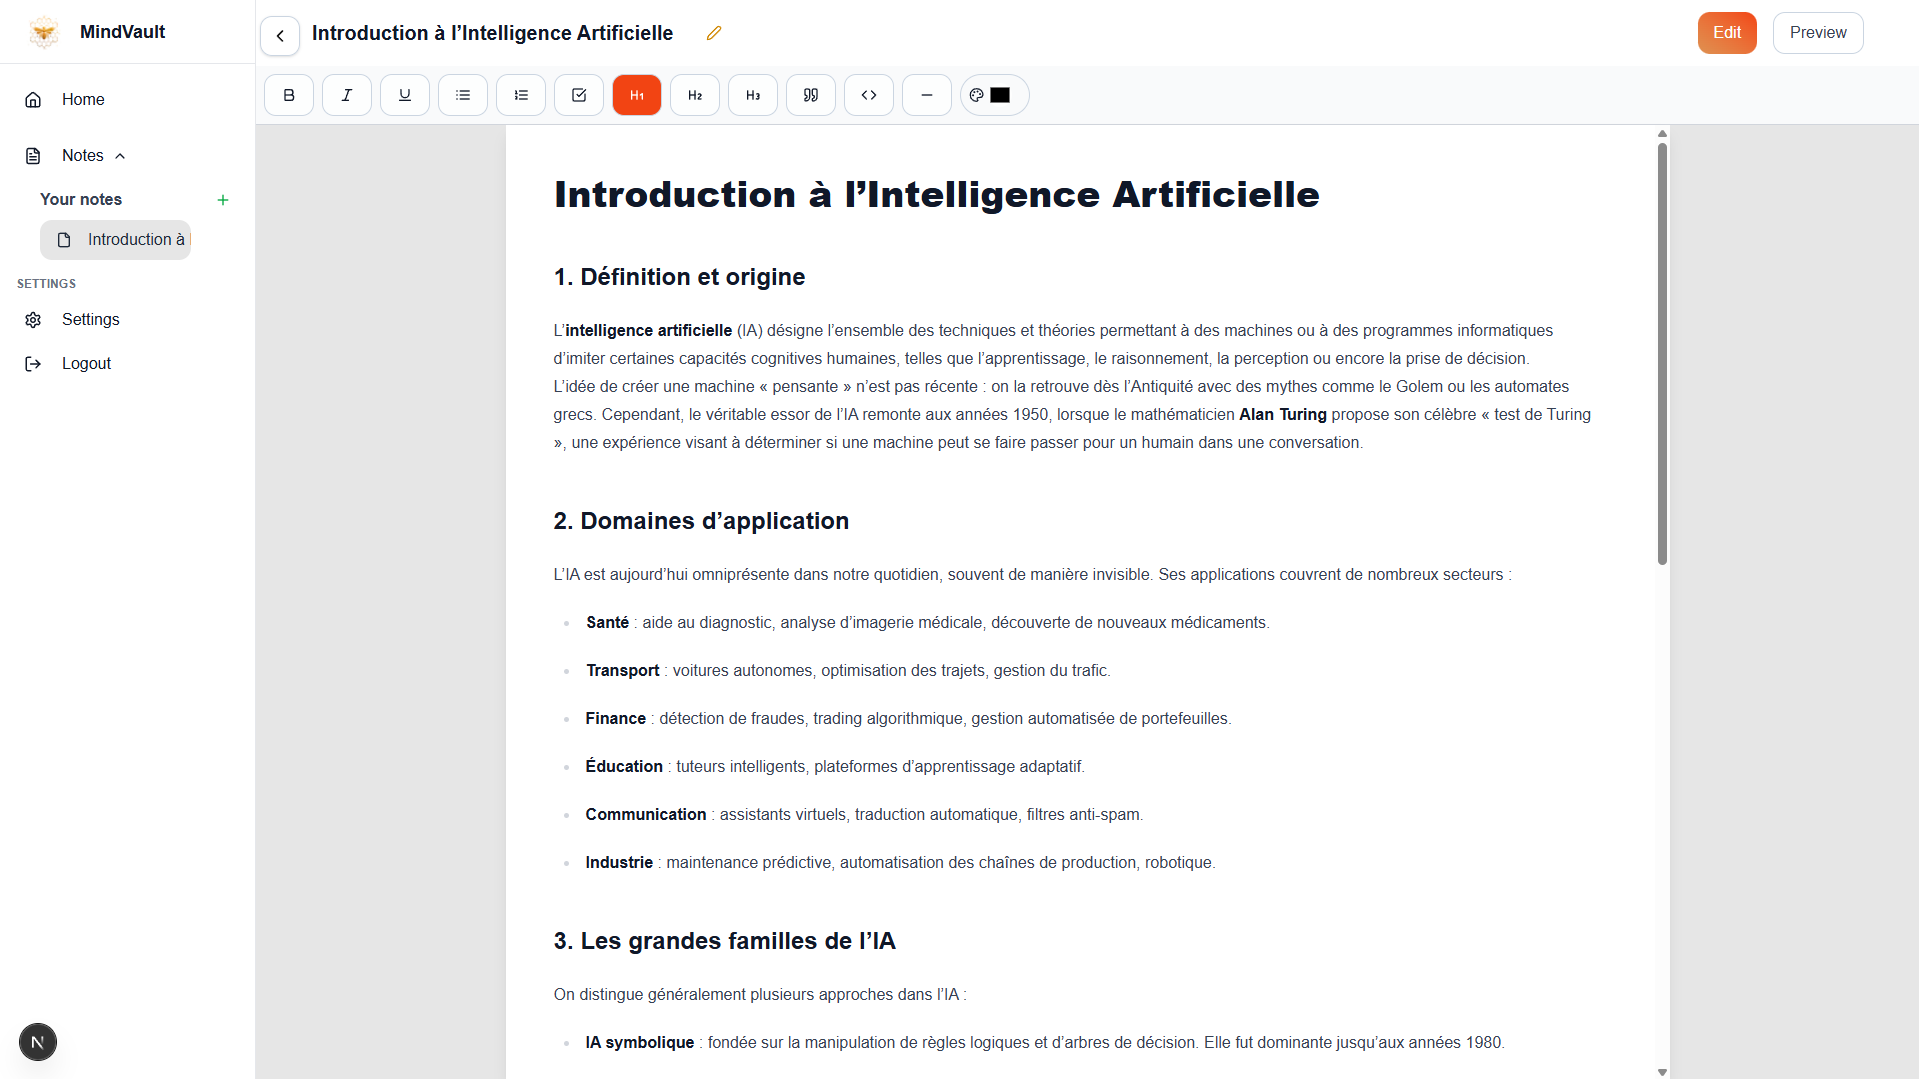
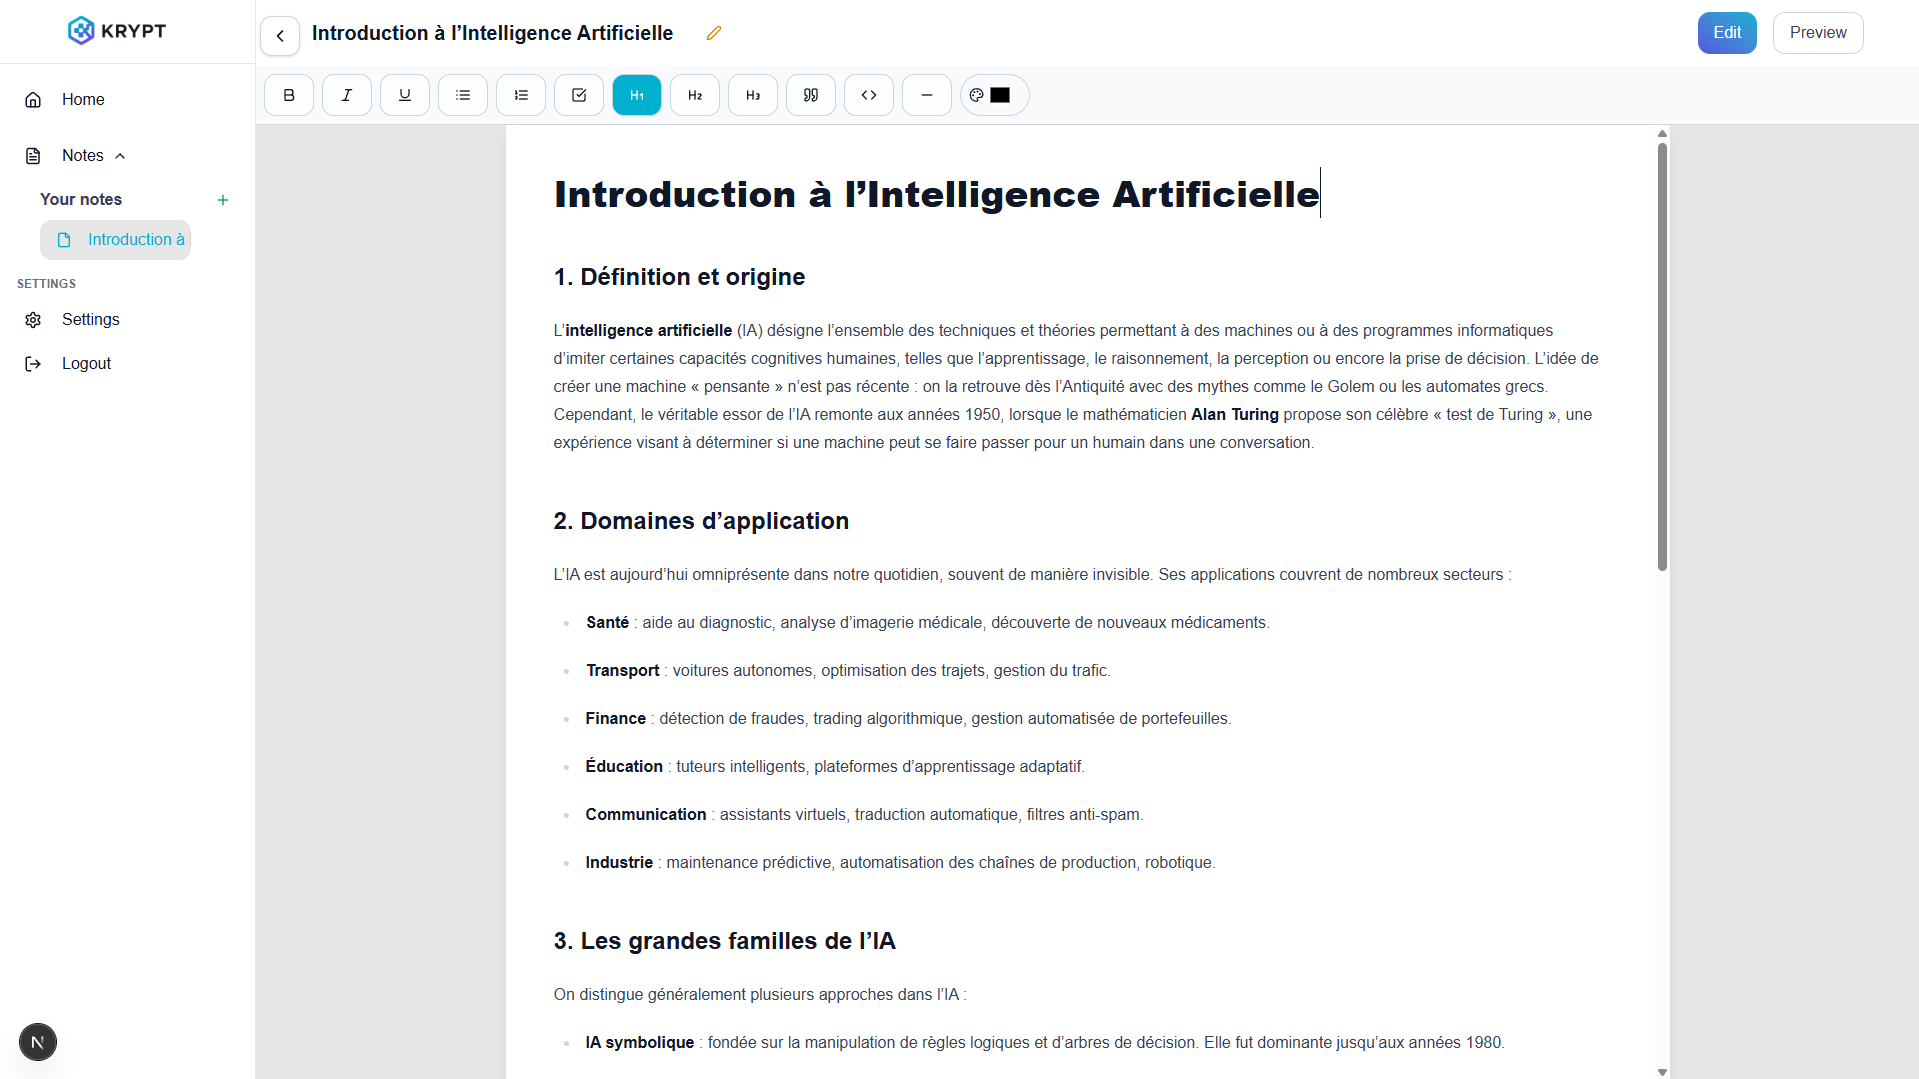
refactor: change mindvault occurence and style

diff --git a/krypt-app/src/app/dashboard/components/Sidebar.tsx b/krypt-app/src/app/dashboard/components/Sidebar.tsx
@@ -51,7 +51,7 @@ export default function Sidebar({
     try {
       const token = localStorage.getItem("token");
       if (!token) throw new Error("No token found");
-      
+
       const logoutUrl = process.env.NEXT_PUBLIC_LOGOUT_URL;
 
       if (!logoutUrl) {
@@ -96,16 +96,26 @@ export default function Sidebar({
         >
           {/* Header */}
           <div className="flex items-center p-4 border-b border-gray-200 h-16">
-            <div className="flex items-center space-x-2">
-              <Image
-                src="/favicon-1.png"
-                alt="MindVault Logo"
-                width={48}
-                height={48}
-                className="h-14 w-14 object-contain select-none"
-                draggable={false}
-              />
-              {!collapsed && <p className="font-bold text-lg">MindVault</p>}
+            <div className="flex items-center space-x-2 transition">
+              {collapsed ? (
+                <Image
+                  src="/favicon-2.png"
+                  alt="Krypt Logo"
+                  width={150}
+                  height={150}
+                  className="h-10 w-20 object-contain select-none"
+                  draggable={false}
+                />
+              ) : (
+                <Image
+                  src="/favicon.png"
+                  alt="Krypt Logo"
+                  width={150}
+                  height={150}
+                  className="h-30 w-50 object-contain select-none"
+                  draggable={false}
+                />
+              )}
             </div>
           </div>
 
@@ -186,7 +196,7 @@ export default function Sidebar({
                         variant="sidebar"
                         className={`flex items-center text-left truncate ${
                           note.id === selectedNoteId
-                            ? "bg-[var(--secondary)] text-[#E88F59]"
+                            ? "bg-[var(--secondary)] text-[var(--primary)]"
                             : "text-gray-800"
                         }`}
                         title={note.title}

diff --git a/krypt-app/src/config/constants.tsx b/krypt-app/src/config/constants.tsx
@@ -4,8 +4,8 @@
 export const HERO_CONTENT = {
   title: "Your ideas, connected and organized",
   description:
-    "Mindvault is your intelligent knowledge base - capture, link, and resurface insights effortlessly. Built for thinkers, creators, and lifelong learners.",
-  primaryCta: "Try Mindvault Free",
+    "Krypt is your intelligent knowledge base - capture, link, and resurface insights effortlessly. Built for thinkers, creators, and lifelong learners.",
+  primaryCta: "Try Krypt for Free",
   secondaryCta: "Learn More",
   placeholder: "Demo App",
 };
@@ -76,7 +76,7 @@ export const FEATURES_LIST: {
 }
 export const TESTIMONIAL = {
   quote:
-    "“MindVault m'aide à capturer mes idées, à structurer ma pensée, et à revenir facilement sur ce qui compte. ",
+    "Krypt m'aide à capturer mes idées, à structurer ma pensée, et à revenir facilement sur ce qui compte. ",
   emphasized: "C'est littéralement mon second cerveau.",
   author: "Pierre Roche",
   role: "Cognitive Coach",
@@ -92,7 +92,7 @@ export const FOOTER = {
   },
   company: {
     title: "Company",
-    links: ["About Mindvault", "Careers", "Privacy & Terms", "Contact"],
+    links: ["About Krypt", "Careers", "Privacy & Terms", "Contact"],
   },
   resources: {
     title: "Resources",
@@ -105,8 +105,8 @@ export const FOOTER = {
     linkedinLabel: "LinkedIn",
   },
   copyright: {
-    alt: "Mindvault Logo",
-    text: `© ${new Date().getFullYear()} Mindvault - All rights reserved.`,
+    alt: "Krypt Logo",
+    text: `© ${new Date().getFullYear()} Krypt - All rights reserved.`,
   },
 };
 

diff --git a/krypt-app/src/app/landing/components/CTA.tsx b/krypt-app/src/app/landing/components/CTA.tsx
@@ -16,7 +16,7 @@ export default function Cta() {
             className="absolute bottom-0 left-1/2 -z-10 -translate-x-1/2 translate-y-1/2"
             aria-hidden="true"
           >
-            <div className="h-56 w-[480px] rounded-full border-[20px] border-[var(--primary)] blur-3xl opacity-50" />
+            <div className="h-56 w-[480px] rounded-full border-[20px] border-[var(--primary)] blur-3xl opacity-100" />
           </div>
 
           {/* Background Illustration */}
@@ -24,14 +24,14 @@ export default function Cta() {
             className="absolute inset-0 -z-10 flex items-center justify-center"
             aria-hidden="true"
           >
-            <div className="relative h-[400px] w-[400px] rounded-full opacity-10">
+            <div className="relative h-[400px] w-[400px] rounded-full opacity-30">
               <div className="absolute inset-0 animate-[pulse_6s_ease-in-out_infinite] rounded-full bg-gradient-to-br from-[var(--background-2)] to-[var(--primary)] blur-3xl"></div>
               <Image
                 src={image}
                 alt="Background pattern"
                 width={400}
                 height={400}
-                className="relative z-10 mx-auto rounded-full border border-white/10 bg-gray-900 p-4 shadow-inner"
+                className="relative z-10 mx-auto rounded-full bg-transparent p-4 shadow-inner"
               />
             </div>
           </div>

diff --git a/krypt-app/src/app/landing/components/Header.tsx b/krypt-app/src/app/landing/components/Header.tsx
@@ -12,14 +12,14 @@ export default function Header() {
 
       <header className="fixed top-2 z-30 w-full md:top-6">
         <div className="mx-auto max-w-6xl px-4 sm:px-6">
-          <div className="relative flex h-14 items-center justify-between gap-3 rounded-2xl backdrop-filter backdrop-blur-[20px] px-3 shadow-lg shadow-black/[0.03] before:pointer-events-none before:absolute before:inset-0 before:rounded-[inherit] before:border before:border-[#cbd5e1] before:[background:linear-gradient(var(--color-gray-100),var(--color-gray-200))_border-box] before:[mask-composite:exclude_!important] before:[mask:linear-gradient(white_0_0)_padding-box,_linear-gradient(white_0_0)]">
+          <div className="relative flex h-14 items-center justify-between gap-3 rounded-2xl bg-white/80 backdrop-blur-[20px] px-3 shadow-lg shadow-black/[0.03] border border-[#cbd5e1]">
             {/* Logo */}
             <div className="flex flex-1 items-center">
               <Image
                 src={icon}
-                alt="Logo"
-                width={60}
-                height={60}
+                alt="Krypt Logo"
+                width={150}
+                height={80}
                 style={{ borderRadius: "0.5rem" }}
               />
             </div>

diff --git a/krypt-app/src/app/landing/components/Features.tsx b/krypt-app/src/app/landing/components/Features.tsx
@@ -18,7 +18,7 @@ export default function Features() {
           {/* Planet */}
           <div className="pb-16 md:pb-20" data-aos="zoom-y-out">
             <div className="text-center">
-              <div className="relative inline-flex rounded-full before:absolute before:inset-0 before:-z-10 before:scale-[.75] before:animate-[pulse_4s_cubic-bezier(.4,0,.6,1)_infinite] before:bg-gradient-to-b before:from-[var(--background-2)] before:to-[var(--primary)] before:blur-3xl before:rounded-full">
+              <div className="relative inline-flex rounded-full before:absolute before:inset-0 before:-z-10 before:scale-[1.25] before:animate-[pulse_4s_cubic-bezier(.4,0,.6,1)_infinite] before:bg-gradient-to-b before:from-[var(--background-2)] before:to-[var(--primary)] before:blur-3xl before:rounded-full">
                 <Image
                   className="rounded-full"
                   src={PlanetImg}

diff --git a/krypt-app/src/app/landing/components/Footer.tsx b/krypt-app/src/app/landing/components/Footer.tsx
@@ -37,7 +37,7 @@ export default function Footer({ border = false }: { border?: boolean }) {
       {/* Glow + background */}
       <div className="relative -mt-16 h-60 w-full" aria-hidden="true">
         <div className="pointer-events-none absolute -mt-6 left-1/2 -translate-x-1/2 text-[256px] font-extrabold text-transparent bg-clip-text bg-gradient-to-r from-[var(--background-2)] to-[var(--primary)] opacity-10">
-          Mindvault
+          Krypt
         </div>
         <div className="absolute -bottom-8 left-1/2 -translate-x-1/2 translate-y-2/3">
           <div className="h-256 w-512 rounded-full bg-gradient-to-r from-[var(--background-2)] to-[var(--primary)] blur-[150px] opacity-35"></div>

diff --git a/krypt-app/src/app/layout.tsx b/krypt-app/src/app/layout.tsx
@@ -13,9 +13,9 @@ const geistMono = Geist_Mono({
 });
 
 export const metadata: Metadata = {
-  title: "MindVault",
+  title: "Krypt",
   icons: "/favicon-2.png",
-  description: "Your intelligent knowledge base",
+  description: "Keep Recording Your Plans and Thoughts",
   authors: [
     {
       name: "Pierre",
@@ -26,7 +26,8 @@ export const metadata: Metadata = {
     "knowledge base",
     "AI",
     "intelligent",
-    "mind vault",
+    "krypt",
+    "Keep Recording Your Plans and Thoughts",
     "personal knowledge management",
   ],
 };

diff --git a/krypt-app/src/components/molecules/FooterBranding.tsx b/krypt-app/src/components/molecules/FooterBranding.tsx
@@ -3,12 +3,12 @@ import icon from "@/app/favicon.png";
 
 export function FooterBranding({ text, alt }: { text: string; alt: string }) {
   return (
-    <div className="space-y-2 sm:col-span-12 lg:col-span-4">
+    <div className="space-y-0 sm:col-span-12 lg:col-span-4">
       <Image
         src={icon}
         alt={alt}
-        width={32}
-        height={32}
+        width={150}
+        height={150}
         style={{ borderRadius: "0.5rem" }}
       />
       <div>{text}</div>

diff --git a/krypt-app/src/app/landing/components/Testimonials.tsx b/krypt-app/src/app/landing/components/Testimonials.tsx
@@ -16,7 +16,7 @@ export default function Testimonial() {
                 src={TestimonialImg}
                 width={48}
                 height={48}
-                alt="MindVault testimonial"
+                alt="Krypt testimonial"
               />
             </div>
             <p className="text-2xl font-bold text-gray-900">

diff --git a/krypt-app/src/styles/globals.css b/krypt-app/src/styles/globals.css
@@ -12,10 +12,10 @@
   --background: #ffffff;
   --foreground: #171717;
   --border: #cbd5e1;
-  --primary: #F24413;
+  --primary: #00b0cf;
   --secondary: #e6e6e6;
-  --background-2: #DE9151;
-  --background-3: #BC5D2E;
+  --background-2: #5554dc;
+  --background-3: #3232d0;
 }
 
 @media (prefers-color-scheme: light) {
